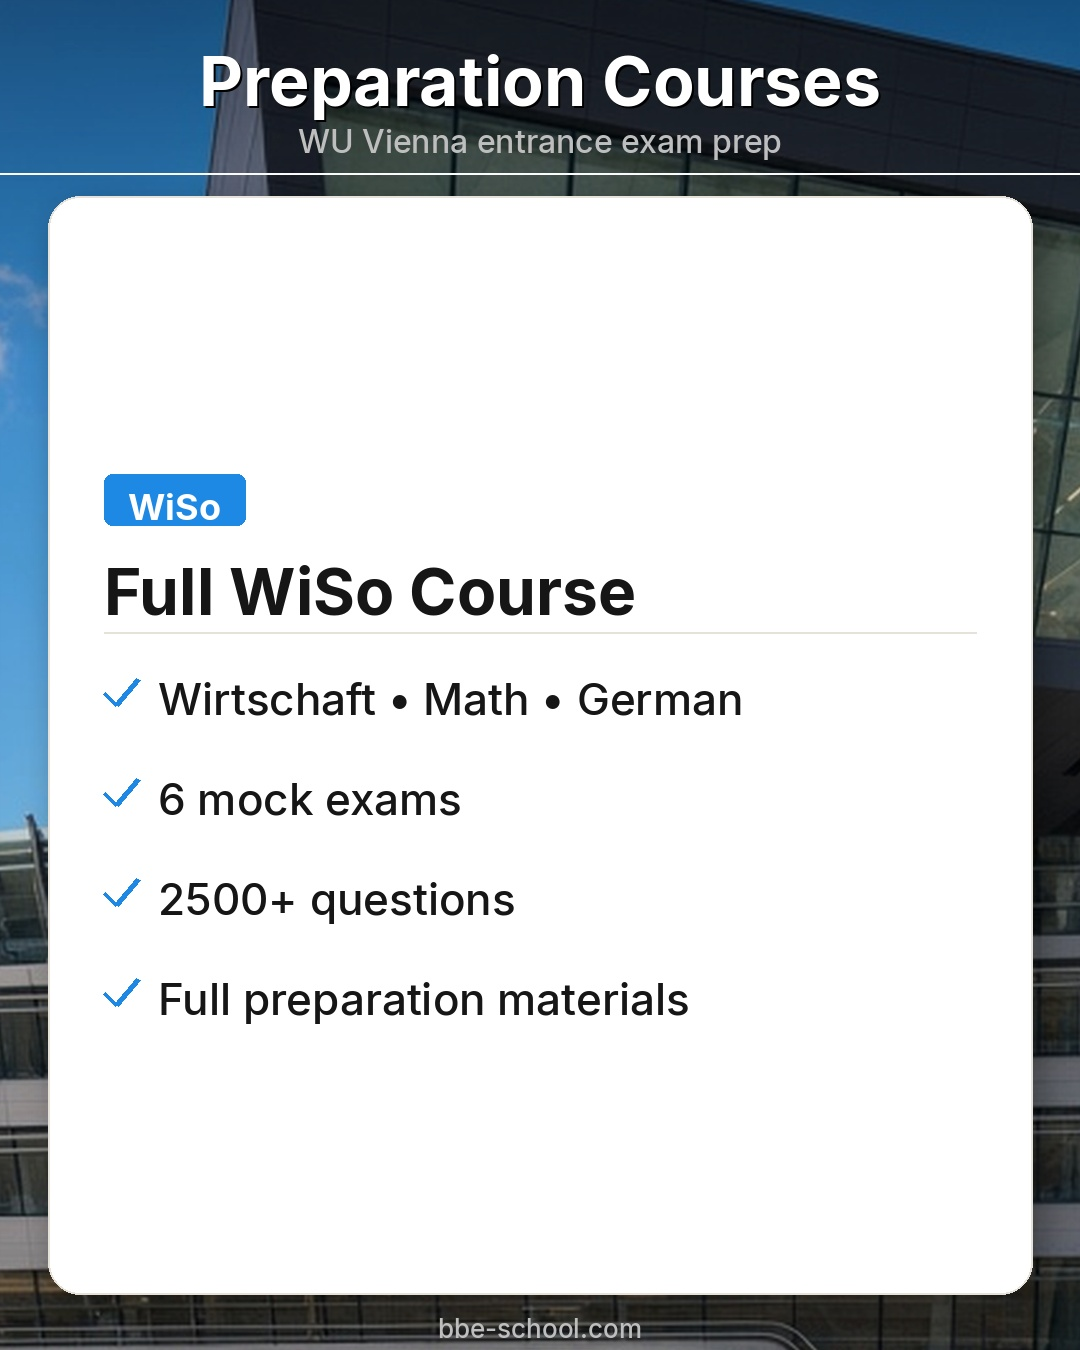
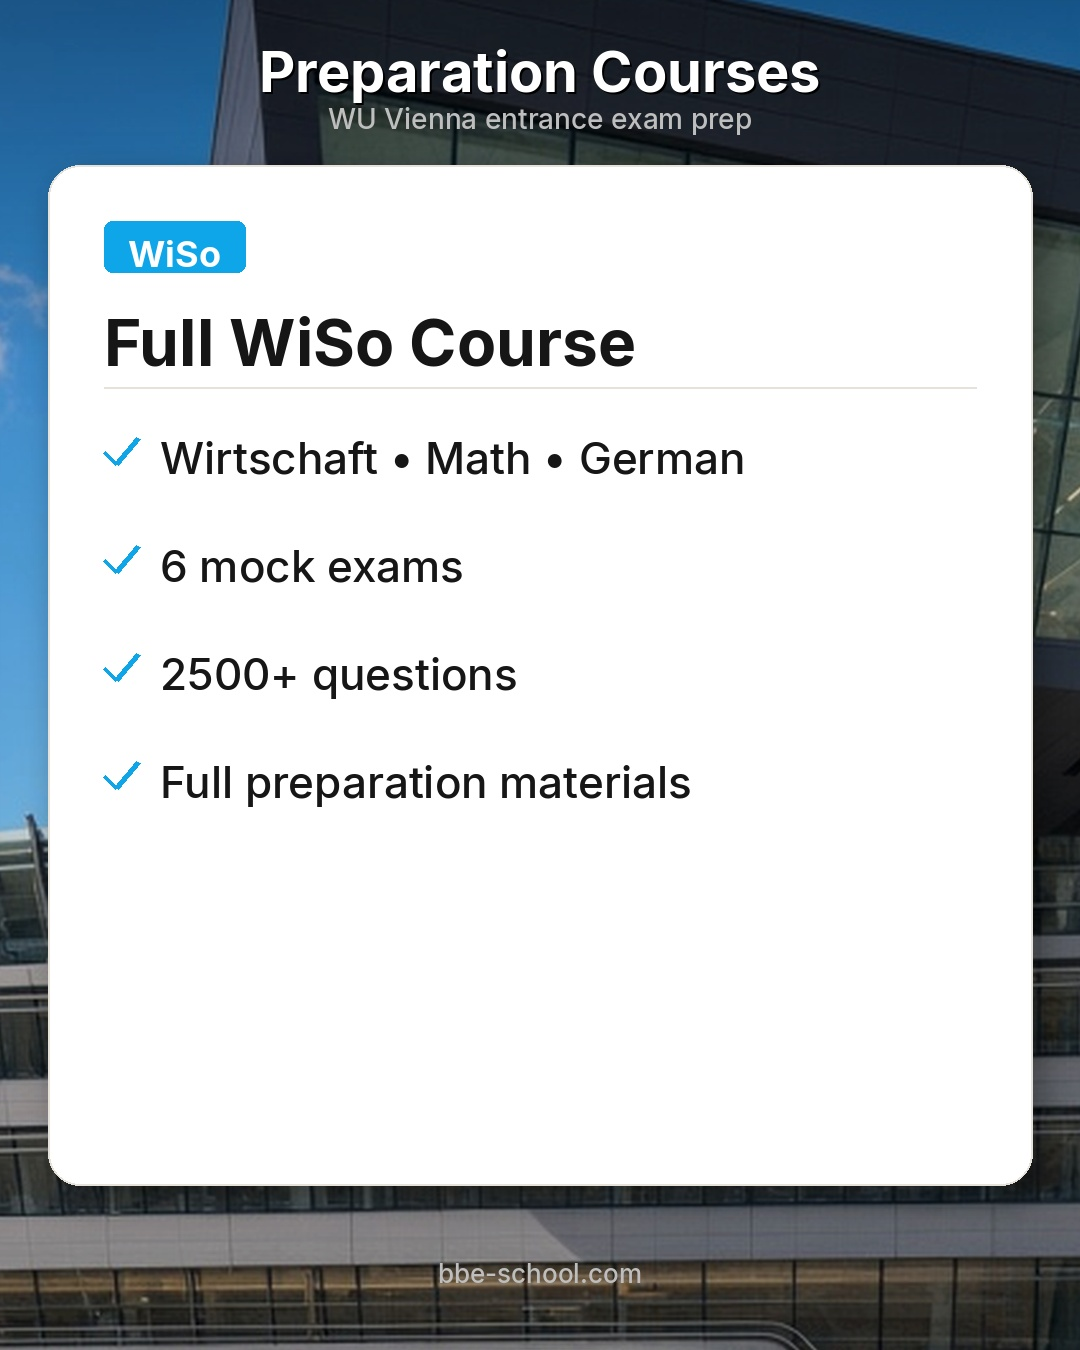
Center cards vertically and switch WiSo to sky blue.
Equal 165px top/bottom margins; WiSo accent is #0EA5E9 so it no
longer reads as purple.

diff --git a/scripts/make_instagram_pinned_banner.py b/scripts/make_instagram_pinned_banner.py
@@ -25,16 +25,18 @@ MUTED_LT = (190, 190, 190)
 CARD = (255, 255, 255)
 CARD_BORDER = (230, 226, 218)
 ORANGE = (232, 122, 46)
-BLUE = (30, 136, 229)  # WiSo — clear blue (#1E88E5)
+BLUE = (14, 165, 233)  # WiSo — sky blue (#0EA5E9), clearly not purple
 TEAL = (46, 140, 130)
 WHITE = (255, 255, 255)
 
 # Layout system (each Instagram tile = 1080×1350)
-MARGIN_X = 48  # card ↔ tile edge (left/right equal)
-MARGIN_TOP = 196  # below header → card
-MARGIN_BOTTOM = 56  # card ↔ footer
+# Cards centered in the frame: equal top & bottom margins
+MARGIN_X = 48
 CARD_W = TILE_W - 2 * MARGIN_X  # 984
-CARD_H = TILE_H - MARGIN_TOP - MARGIN_BOTTOM  # 1098
+CARD_H = 1020
+MARGIN_V = (TILE_H - CARD_H) // 2  # 165 — same above and below
+MARGIN_TOP = MARGIN_V
+MARGIN_BOTTOM = TILE_H - MARGIN_TOP - CARD_H  # keep exact
 CARD_PAD = 56  # inner padding
 GAP_TAG_TITLE = 32
 GAP_TITLE_RULE = 32
@@ -278,27 +280,7 @@ def build_banner(bg: Image.Image, *, glass_cards: bool = False) -> Image.Image:
     canvas = bg.convert("RGBA")
     draw = ImageDraw.Draw(canvas)
 
-    # Header band — centered on full banner, fixed rhythm
-    title_f = font("Inter-Bold.ttf", 68)
-    sub_f = font("Inter-Medium.ttf", 32)
-    title = "Preparation Courses"
-    tw, th = text_size(draw, title, title_f)
-    title_y = 40
-    draw.text(((W - tw) / 2 + 2, title_y + 2), title, font=title_f, fill=(0, 0, 0, 150))
-    draw.text(((W - tw) / 2, title_y), title, font=title_f, fill=WHITE)
-
-    sub = "WU Vienna entrance exam prep"
-    sw, sh = text_size(draw, sub, sub_f)
-    sub_y = title_y + th + 16
-    draw.text(((W - sw) / 2, sub_y), sub, font=sub_f, fill=MUTED_LT)
-
-    rule_y = sub_y + sh + 20
-    draw.line([(160, rule_y), (W - 160, rule_y)], fill=(255, 255, 255, 60), width=2)
-
-    logo_size = 84
-    draw_logo(draw, W - MARGIN_X - logo_size, 32, size=logo_size, light=True)
-
-    # Cards: identical size, equal side margins inside every tile
+    # Cards first conceptually: vertically centered in each tile
     for i, card in enumerate(CARDS):
         left = i * TILE_W + MARGIN_X
         draw_card(
@@ -314,11 +296,28 @@ def build_banner(bg: Image.Image, *, glass_cards: bool = False) -> Image.Image:
             height=CARD_H,
         )
 
+    # Compact header sits in the top margin band (above the cards)
+    title_f = font("Inter-Bold.ttf", 56)
+    sub_f = font("Inter-Medium.ttf", 28)
+    title = "Preparation Courses"
+    tw, th = text_size(draw, title, title_f)
+    title_y = max(24, (MARGIN_TOP - th - 36) // 2)
+    draw.text(((W - tw) / 2 + 2, title_y + 2), title, font=title_f, fill=(0, 0, 0, 150))
+    draw.text(((W - tw) / 2, title_y), title, font=title_f, fill=WHITE)
+
+    sub = "WU Vienna entrance exam prep"
+    sw, sh = text_size(draw, sub, sub_f)
+    sub_y = title_y + th + 10
+    draw.text(((W - sw) / 2, sub_y), sub, font=sub_f, fill=MUTED_LT)
+
+    logo_size = 72
+    draw_logo(draw, W - MARGIN_X - logo_size, 24, size=logo_size, light=True)
+
     url_f = font("Inter-Medium.ttf", 26)
     url = "bbe-school.com"
     uw, uh = text_size(draw, url, url_f)
-    # Sit in the bottom margin, vertically centered in that band
-    url_y = H - MARGIN_BOTTOM + (MARGIN_BOTTOM - uh) // 2
+    # Center URL in the equal bottom margin band
+    url_y = MARGIN_TOP + CARD_H + (MARGIN_BOTTOM - uh) // 2
     draw.text(((W - uw) / 2, url_y), url, font=url_f, fill=MUTED_LT)
     return canvas.convert("RGB")
 

diff --git a/scripts/make_instagram_wave_banner.py b/scripts/make_instagram_wave_banner.py
@@ -28,7 +28,7 @@ WAVE_BOLD = (150, 138, 122)
 CARD = (255, 255, 255)
 CARD_BORDER = (230, 226, 218)
 ORANGE = (232, 122, 46)
-PURPLE = (124, 92, 191)
+BLUE = (14, 165, 233)
 TEAL = (46, 140, 130)
 WHITE = (255, 255, 255)
 
